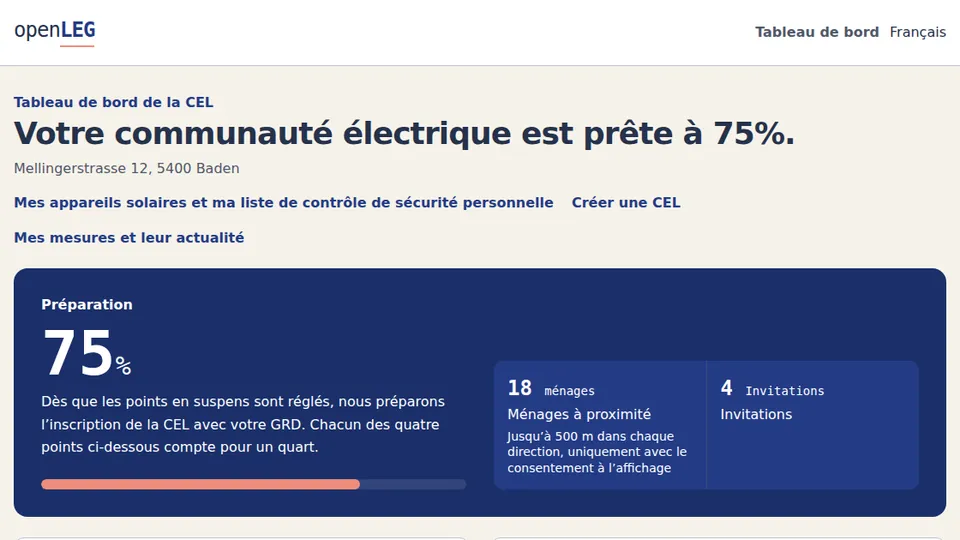
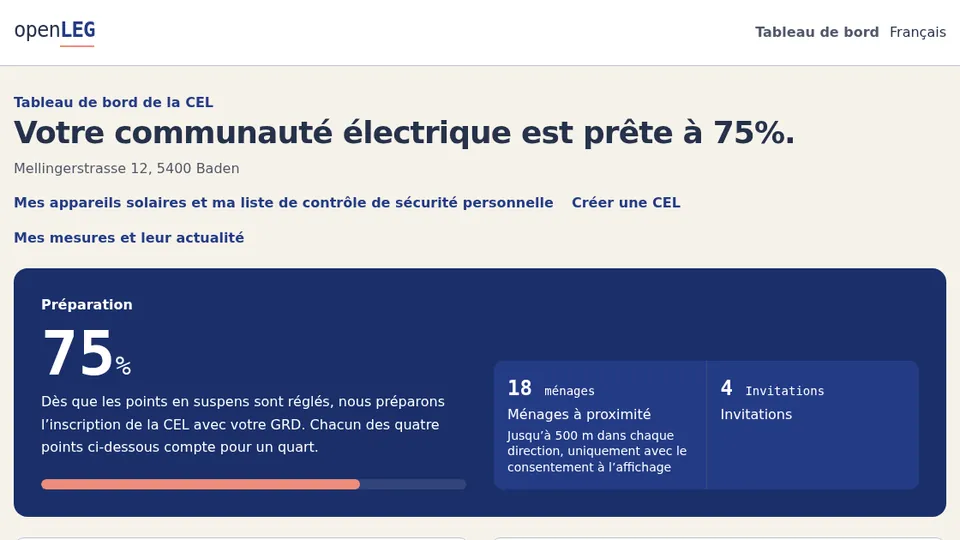
fix(site): stabilize product media captures
Disable transitions and subpixel text rendering, and let fonts and
layout settle before taking screenshots. Frame the municipality and
formation details between sections.

Exclude the development capture script from the Docker build context.

Refs #998

diff --git a/scripts/capture_product_media.py b/scripts/capture_product_media.py
@@ -74,6 +74,9 @@ def open_demo(browser_page, name, locale, **query):
         or not browser_page.locator(".product-shell h1").is_visible()
     ):
         raise RuntimeError(f"Could not render {name} in {locale}")
+    browser_page.add_style_tag(
+        content="*, *::before, *::after { transition: none !important; }"
+    )
 
 
 def screenshot(page, selector=None, *, top=16):
@@ -85,7 +88,15 @@ def screenshot(page, selector=None, *, top=16):
             }""",
             top,
         )
-    page.evaluate("document.fonts.ready")
+    # Let Chromium paint the final layout after scrolling or changing a form.
+    page.evaluate(
+        """async () => {
+            await document.fonts.ready;
+            await new Promise(resolve => requestAnimationFrame(
+                () => requestAnimationFrame(resolve)
+            ));
+        }"""
+    )
     with Image.open(BytesIO(page.screenshot(animations="disabled"))) as image:
         return image.convert("RGB").resize(OUTPUT_SIZE, Image.Resampling.LANCZOS)
 
@@ -101,10 +112,12 @@ def capture_flow(page, name, locale):
         action = screenshot(page, "#savings-result", top=300)
     elif name == "municipality-dashboard":
         details = screenshot(page, 'section[aria-labelledby="interest-summary-title"]')
+        # Leave space to align the last row without slicing the metrics above it.
+        page.locator("main").evaluate("el => { el.style.paddingBottom = '8rem'; }")
         action = screenshot(page, 'section[aria-labelledby="steps-title"]')
     else:
         details = screenshot(
-            page, "#main-content [data-leg-workspace] section:first-of-type"
+            page, "#main-content [data-leg-workspace] section:nth-of-type(2)", top=32
         )
         open_demo(page, name, locale, page="members")
         action = screenshot(page)
@@ -163,7 +176,9 @@ def capture_all(browser):
 def main():
     """Capture both locales before replacing the checked-in media."""
     with sync_playwright() as driver:
-        browser = driver.chromium.launch()
+        browser = driver.chromium.launch(
+            args=["--disable-lcd-text", "--disable-font-subpixel-positioning"]
+        )
         try:
             outputs = capture_all(browser)
         finally:
